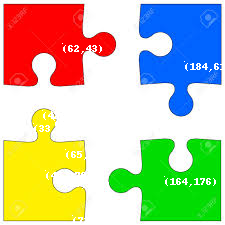
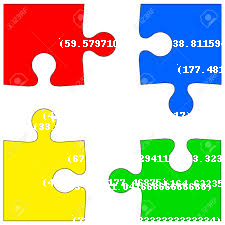
Arregada linea 60

diff --git a/test.py b/test.py
@@ -9,9 +9,9 @@ imagen = cv2.imread('rompecabezas3.jpg')
 # imagen = cv2.imread('colores.png')
 hsv = cv2.cvtColor(imagen, cv2.COLOR_BGR2HSV)
 
-#Imagen resultado
+# Imagen resultado
 imagenres = Image.open("rompecabezas3.jpg")
-dibujo = ImageDraw.Draw(imagenres) 
+dibujo = ImageDraw.Draw(imagenres)
 
 # Rango de colores detectados:
 # Verdes:
@@ -57,7 +57,7 @@ blur = cv2.GaussianBlur(mask, (5, 5), 0)
 edges = cv2.Canny(mask, 1, 2)
 
 # Si el area blanca de la mascara es superior a 500px, no se trata de ruido
-contours, hier = cv2.findContours(edges, cv2.RETR_EXTERNAL, cv2.CHAIN_APPROX_SIMPLE)
+_, contours, _ = cv2.findContours(edges, cv2.RETR_EXTERNAL, cv2.CHAIN_APPROX_SIMPLE)
 areas = [cv2.contourArea(c) for c in contours]
 i = 0
 for extension in areas:
@@ -71,56 +71,56 @@ for extension in areas:
     print(str(approx).replace('[[', '(').replace(']]', ')').replace('([', ' (').replace(')]', ')'))
     print()
 
-#fuente = ImageFont.truetype("Arabic Magic.ttf", 40)   
-#Metodo para encontrar el maximo y el minimo en x,y de todas las figuras
+#fuente = ImageFont.truetype("Arabic Magic.ttf", 40)
+# Metodo para encontrar el maximo y el minimo en x,y de todas las figuras
 for contour in contours:
     xmax = 0
     ymax = 0
     xmin, ymin, channels = imagen.shape
     for points in contour:
-        if xmax < points[:,0]:
-            xmax = points[:,0] 
-        if xmin > points[:,0]:
-            xmin = points[:,0] 
-        if ymax < points[:,1]:
-            ymax = points[:,1] 
-        if ymin > points[:,1]:
-            ymin = points[:,1]
-    #print('xmax '+str(xmax)+'ymax '+str(ymax)+'xmin '+str(xmin)+'ymin '+str(ymin)) 
-    if xmax-xmin > ymax-ymin:
-        differencemax = (xmax-xmin/2)+10
+        if xmax < points[:, 0]:
+            xmax = points[:, 0]
+        if xmin > points[:, 0]:
+            xmin = points[:, 0]
+        if ymax < points[:, 1]:
+            ymax = points[:, 1]
+        if ymin > points[:, 1]:
+            ymin = points[:, 1]
+    #print('xmax '+str(xmax)+'ymax '+str(ymax)+'xmin '+str(xmin)+'ymin '+str(ymin))
+    if xmax - xmin > ymax - ymin:
+        differencemax = (xmax - xmin / 2) + 10
     else:
-        differencemax = (ymax-ymin/2)+10
+        differencemax = (ymax - ymin / 2) + 10
     experiments = 100
     randomDictionary = {}
     for i in range(experiments):
-        distancelist = []    
-        #Se genera un punto aleatorio (x,y)
+        distancelist = []
+        # Se genera un punto aleatorio (x,y)
         xa = randint(xmin, xmax)
         ya = randint(ymin, ymax)
-        #Se calculan las distancias entre el punto aleatorio y los puntos de referencia
+        # Se calculan las distancias entre el punto aleatorio y los puntos de referencia
         for p in contour:
-            distance = math.sqrt(pow(p[:,0]-xa,2)+pow(p[:,1]-ya,2))
+            distance = math.sqrt(pow(p[:, 0] - xa, 2) + pow(p[:, 1] - ya, 2))
             distancelist.append(distance)
-        #Si la diferencia de distancias es menor a la establecida, se guarda el punto
-        if (max(distancelist)-min(distancelist))<=differencemax:
+        # Si la diferencia de distancias es menor a la establecida, se guarda el punto
+        if (max(distancelist) - min(distancelist)) <= differencemax:
             randomDictionary[xa] = [ya]
     pointslist = randomDictionary.items()
-    #Se calcula el promedio de los puntos validos
+    # Se calcula el promedio de los puntos validos
     summationx = 0
-    summationy = 0    
+    summationy = 0
     #print('longitud lista '+str(len(pointslist)))
     for x, y in pointslist:
-        #print(str(y[0]))
-        summationx += x 
+        # print(str(y[0]))
+        summationx += x
         summationy += y[0]
-    averagex = summationx/len(pointslist)
-    averagey = summationy/len(pointslist)
+    averagex = summationx / len(pointslist)
+    averagey = summationy / len(pointslist)
 
-    print('Centro geometrico -> x: '+str(averagex)+'y: '+str(averagey))
+    print('Centro geometrico -> x: ' + str(averagex) + 'y: ' + str(averagey))
     dibujo.point((averagex, averagey), fill="white")
-    dibujo.text((averagex,averagey), '('+str(averagex)+','+str(averagey)+')', 
-    font=None, fill=(255,255,255,255))
+    dibujo.text((averagex, averagey), '(' + str(averagex) + ',' + str(averagey) + ')',
+                font=None, fill=(255, 255, 255, 255))
 
 imagenres.show()
 imagenres.save("linea.png")
@@ -131,7 +131,7 @@ while(1):
     # Mostrar la mascara final y la imagen
     cv2.imshow('Finale', mask)
     cv2.imshow('Imagen', imagen)
-    cv2.imshow('ImagenR', imagenres)    
+    cv2.imshow('ImagenR', imagenres)
     tecla = cv2.waitKey(5) & 0xFF
     if tecla == 27:
         break
